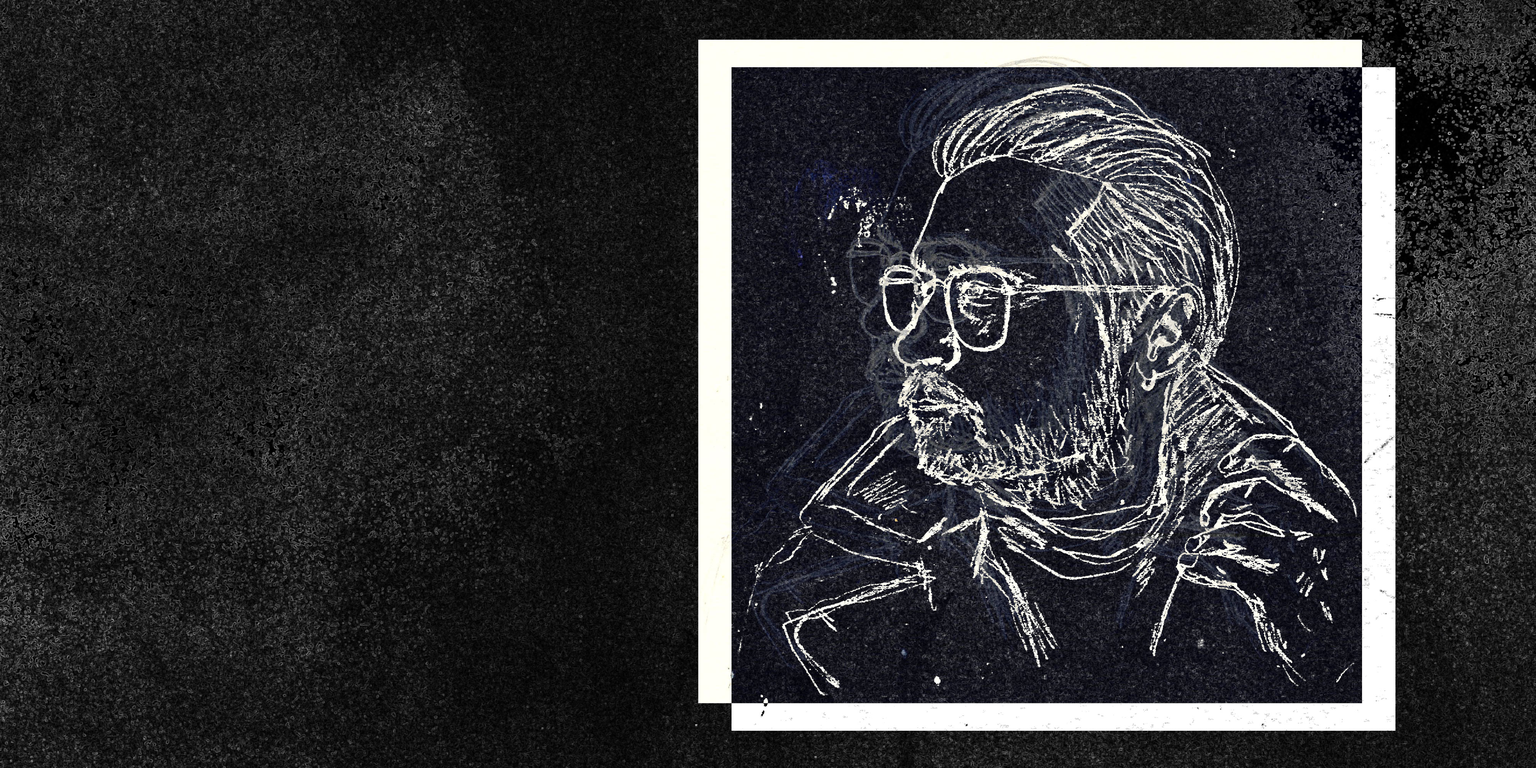
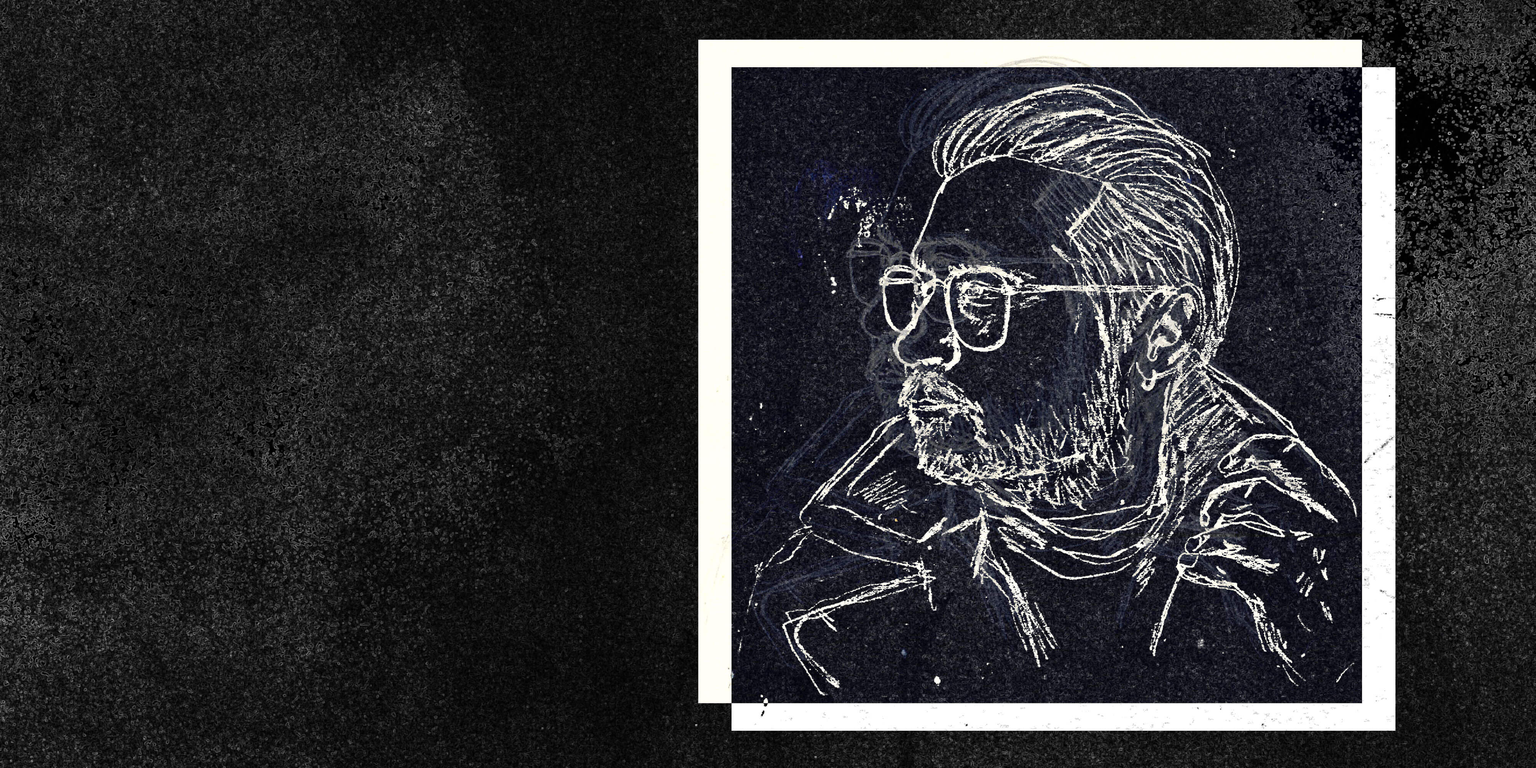
add basic image optimisations and accessibility

diff --git a/src/data/albums.ts b/src/data/albums.ts
@@ -130,7 +130,7 @@ export const albums: Album[] = [
   {
     img: LFES_ALBUM_ART,
     title: 'Live From Elevator Studios EP',
-    releaseDate: '26/06/2020',
+    releaseDate: '09/09/2017',
     tracklist: {
       1: 'Movie In Your Eyes',
       2: 'On A Stage',
